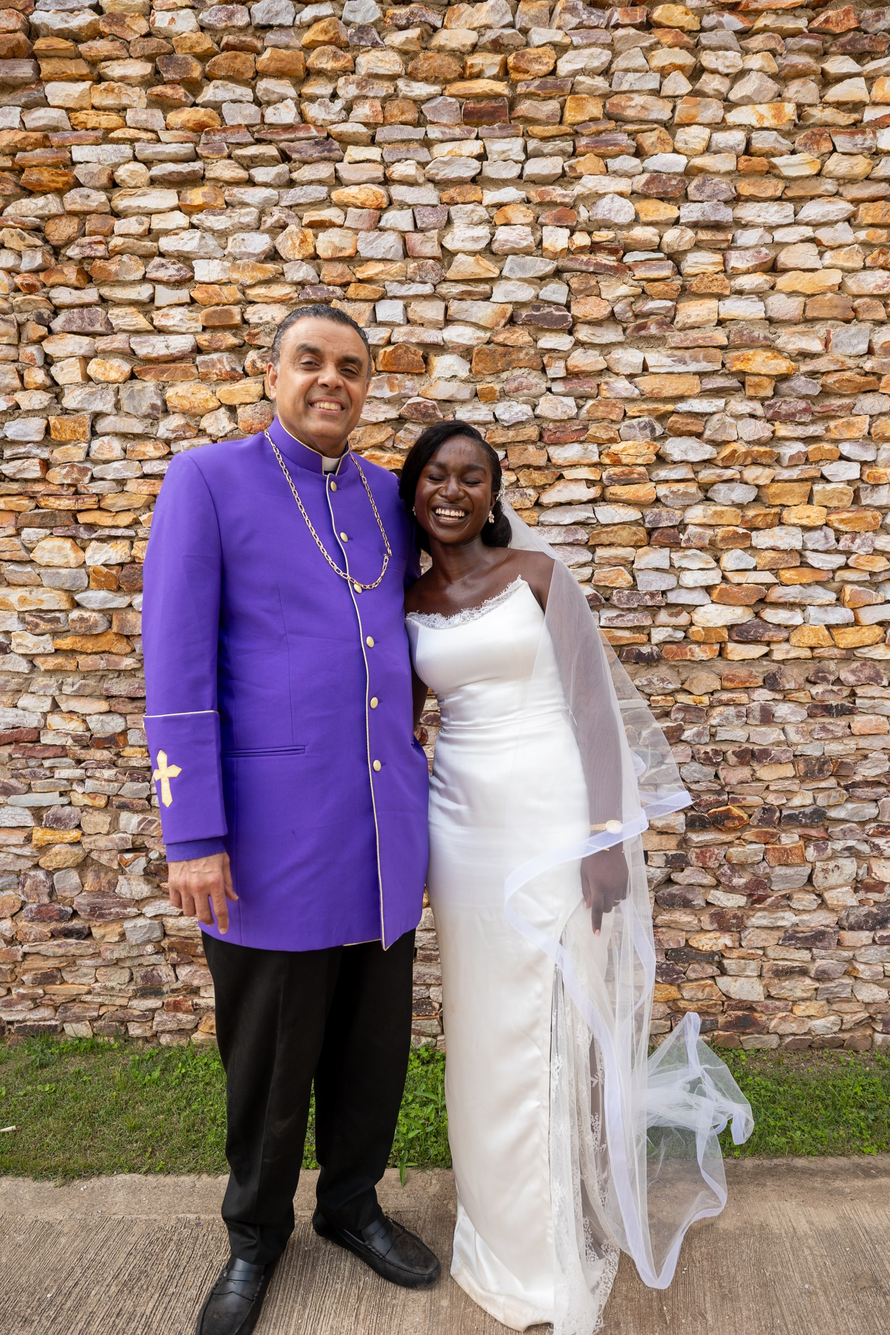
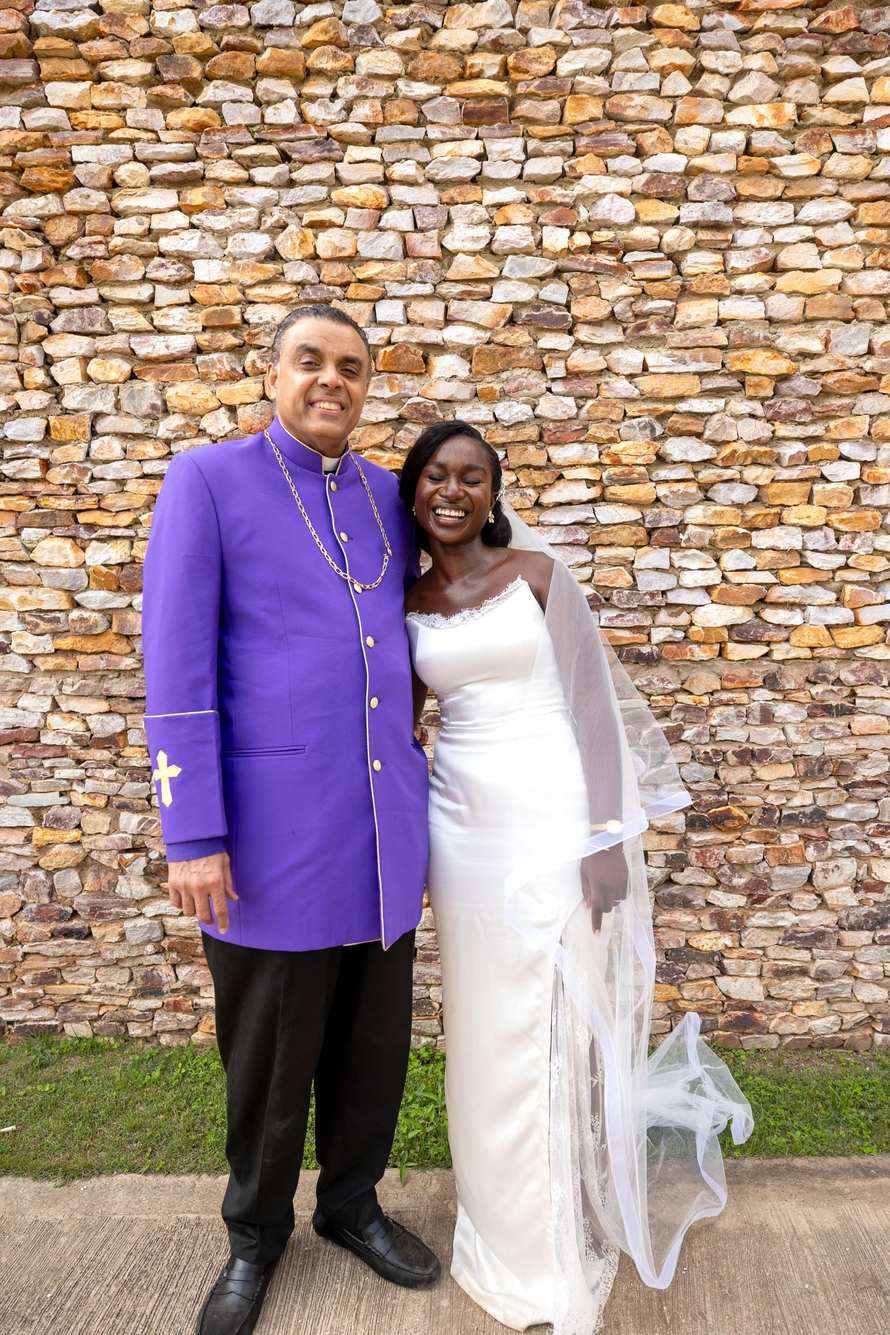
Replace selected photo edits and feature them early in the carousel

diff --git a/photos/gallery/index.html b/photos/gallery/index.html
@@ -1,1 +1,1 @@
-<!doctype html><html lang="en"><head><meta charset="utf-8"><meta name="viewport" content="width=device-width,initial-scale=1"><title>Wedding photos · Joshua & Lucia</title><meta name="robots" content="noindex"><link rel="icon" href="/assets/favicon-sage.png"><link rel="stylesheet" href="/photos/memories.css?v=20261120-compact-gifts"></head><body><nav aria-label="Wedding navigation"><a class="brand" href="/photos/"><img src="/assets/monogram-sage.png" alt="JL">Joshua & Lucia</a><div class="page-tabs"><a href="/photos/" aria-current="page">Photos</a><a href="/programme/Joshua-and-Lucia.pdf" target="_blank" rel="noopener">Wedding programme ↗</a><a href="/gifts/">Gifts and offerings</a></div></nav><main><header class="album-header"><p class="eyebrow">7 November 2026 · Our wedding album</p><h1>Together forever.</h1><div class="album-toolbar"><p id="count" role="status">Loading our wedding photos…</p><a href="/photos/shared/" class="button">Guest photos & videos ↗</a></div></header><div class="album-controls"><div class="tabs" role="group" aria-label="Wedding photo collections"><button data-category="all" aria-pressed="true">All photos</button><button data-category="ceremony" aria-pressed="false">The ceremony</button><button data-category="portraits" aria-pressed="false">Wedding portraits</button><button data-category="reception" aria-pressed="false">The reception</button></div><div class="sizes" role="group" aria-label="Photo grid size"><span>Photo size</span><button data-size="small" aria-pressed="false">Small</button><button data-size="large" aria-pressed="true">Large</button></div></div><div class="gallery-grid" id="grid"></div><p id="status" class="status" role="status"></p><button id="retry" class="button" hidden>Try again</button><button id="more" class="button load-more" hidden>Show more photos</button><div class="gift"><a href="/gifts/">Gifts and offerings ↗</a></div><footer><span>With love, Joshua & Lucia</span><a href="https://youtu.be/m_x5uWa3ee0" target="_blank" rel="noopener">Watch the full wedding ↗</a></footer></main><dialog id="viewer" aria-label="Wedding photo viewer"><div class="viewer-top"><span id="position"></span><button id="close" aria-label="Close photo">Close ×</button></div><div class="viewer-stage" id="viewer-stage"><img id="full" class="viewer-image" alt="" draggable="false"><p class="swipe-hint" id="swipe-hint" hidden><span aria-hidden="true">← &nbsp; →</span> Swipe to see more photos</p></div><div class="viewer-bottom"><button id="prev" aria-label="Previous photo">← Previous</button><a href="/gifts/" class="gallery-gift">Gifts and offerings ↗</a><button id="share">Share ↗</button><a id="download" download>Download JPEG ↓</a><button id="next" aria-label="Next photo">Next →</button></div><p class="share-status" id="share-status" role="status" aria-live="polite"></p></dialog><script src="/photos/gallery/gallery.js?v=20261120-120"></script></body></html>
+<!doctype html><html lang="en"><head><meta charset="utf-8"><meta name="viewport" content="width=device-width,initial-scale=1"><title>Wedding photos · Joshua & Lucia</title><meta name="robots" content="noindex"><link rel="icon" href="/assets/favicon-sage.png"><link rel="stylesheet" href="/photos/memories.css?v=20261120-replacements"></head><body><nav aria-label="Wedding navigation"><a class="brand" href="/photos/"><img src="/assets/monogram-sage.png" alt="JL">Joshua & Lucia</a><div class="page-tabs"><a href="/photos/" aria-current="page">Photos</a><a href="/programme/Joshua-and-Lucia.pdf" target="_blank" rel="noopener">Wedding programme ↗</a><a href="/gifts/">Gifts and offerings</a></div></nav><main><header class="album-header"><p class="eyebrow">7 November 2026 · Our wedding album</p><h1>Together forever.</h1><div class="album-toolbar"><p id="count" role="status">Loading our wedding photos…</p><a href="/photos/shared/" class="button">Guest photos & videos ↗</a></div></header><div class="album-controls"><div class="tabs" role="group" aria-label="Wedding photo collections"><button data-category="all" aria-pressed="true">All photos</button><button data-category="ceremony" aria-pressed="false">The ceremony</button><button data-category="portraits" aria-pressed="false">Wedding portraits</button><button data-category="reception" aria-pressed="false">The reception</button></div><div class="sizes" role="group" aria-label="Photo grid size"><span>Photo size</span><button data-size="small" aria-pressed="false">Small</button><button data-size="large" aria-pressed="true">Large</button></div></div><div class="gallery-grid" id="grid"></div><p id="status" class="status" role="status"></p><button id="retry" class="button" hidden>Try again</button><button id="more" class="button load-more" hidden>Show more photos</button><div class="gift"><a href="/gifts/">Gifts and offerings ↗</a></div><footer><span>With love, Joshua & Lucia</span><a href="https://youtu.be/m_x5uWa3ee0" target="_blank" rel="noopener">Watch the full wedding ↗</a></footer></main><dialog id="viewer" aria-label="Wedding photo viewer"><div class="viewer-top"><span id="position"></span><button id="close" aria-label="Close photo">Close ×</button></div><div class="viewer-stage" id="viewer-stage"><img id="full" class="viewer-image" alt="" draggable="false"><p class="swipe-hint" id="swipe-hint" hidden><span aria-hidden="true">← &nbsp; →</span> Swipe to see more photos</p></div><div class="viewer-bottom"><button id="prev" aria-label="Previous photo">← Previous</button><a href="/gifts/" class="gallery-gift">Gifts and offerings ↗</a><button id="share">Share ↗</button><a id="download" download>Download JPEG ↓</a><button id="next" aria-label="Next photo">Next →</button></div><p class="share-status" id="share-status" role="status" aria-live="polite"></p></dialog><script src="/photos/gallery/gallery.js?v=20261120-replacements"></script></body></html>

diff --git a/photos/index.html b/photos/index.html
@@ -1,9 +1,9 @@
 <!doctype html>
-<html lang="en"><head><meta charset="utf-8"><meta name="viewport" content="width=device-width,initial-scale=1"><title>Wedding memories · Joshua & Lucia</title><meta name="robots" content="noindex"><meta name="description" content="With grateful hearts. Explore Joshua and Lucia’s wedding photos and watch the full celebration."><meta property="og:title" content="With love, Joshua & Lucia"><meta property="og:description" content="Our wedding photos, the full celebration, and a heartfelt thank you."><meta property="og:image" content="https://joshualucia.com/photos/featured.jpg"><link rel="icon" href="/assets/favicon-sage.png"><link rel="stylesheet" href="/photos/memories.css?v=20261120-compact-gifts"><script>if(new URLSearchParams(location.search).has('photo'))location.replace('/photos/shared/'+location.search);</script></head><body>
+<html lang="en"><head><meta charset="utf-8"><meta name="viewport" content="width=device-width,initial-scale=1"><title>Wedding memories · Joshua & Lucia</title><meta name="robots" content="noindex"><meta name="description" content="With grateful hearts. Explore Joshua and Lucia’s wedding photos and watch the full celebration."><meta property="og:title" content="With love, Joshua & Lucia"><meta property="og:description" content="Our wedding photos, the full celebration, and a heartfelt thank you."><meta property="og:image" content="https://joshualucia.com/photos/featured.jpg"><link rel="icon" href="/assets/favicon-sage.png"><link rel="stylesheet" href="/photos/memories.css?v=20261120-replacements"><script>if(new URLSearchParams(location.search).has('photo'))location.replace('/photos/shared/'+location.search);</script></head><body>
 <nav aria-label="Wedding navigation"><a class="brand" href="/photos/"><img src="/assets/monogram-sage.png" alt="JL">Joshua & Lucia</a><div class="page-tabs"><a href="/photos/" aria-current="page">Photos</a><a href="/programme/Joshua-and-Lucia.pdf" target="_blank" rel="noopener">Wedding programme ↗</a><a href="/gifts/">Gifts and offerings</a></div></nav>
 <main><header class="intro"><p class="eyebrow">7 November 2026 · Joshua & Lucia</p><h1>Together <span>forever.</span></h1><p>Thank you for celebrating with us.</p></header>
 <section class="card photo-card" aria-labelledby="photo-title"><div class="card-heading"><div><p class="eyebrow">Love is as strong as death</p><h2 id="photo-title">Wedding photos</h2></div><button id="pause" class="text-button" aria-pressed="false" aria-label="Pause moving photos">Pause photos</button></div><div class="carousel" id="preview" aria-label="Wedding photo highlights" tabindex="0"><div class="carousel-track" id="carousel-track"><div class="carousel-group"><a href="/photos/gallery/"><img alt="Joshua and Lucia on their wedding day" src="/photos/featured.jpg" style="object-position:20% 50%"></a><a href="/photos/gallery/"><img alt="Our wedding celebration" src="/photos/featured-2.jpg" style="object-position:30% 45%"></a><a href="/photos/gallery/"><img alt="Wedding memories with loved ones" src="/photos/featured-3.jpg" style="object-position:50% 10%"></a></div></div></div><div class="card-bottom"><p>The ceremony, the portraits, and the reception.</p><a class="button" href="/photos/gallery/">View all photos <span aria-hidden="true">↗</span></a></div></section>
 <section class="card film-card" aria-labelledby="film-title"><a class="film-image" href="https://youtu.be/m_x5uWa3ee0" target="_blank" rel="noopener" aria-label="Watch the full wedding livestream on YouTube"><img src="https://i.ytimg.com/vi/m_x5uWa3ee0/hqdefault.jpg" alt="Joshua and Lucia’s wedding livestream"><span class="play" aria-hidden="true">▶</span></a><div class="film-copy"><p class="eyebrow">Missed the livestream?</p><h2 id="film-title">Watch the full wedding</h2><p>Join us for the service, the vows, and the worship.</p><a class="button" href="https://youtu.be/m_x5uWa3ee0" target="_blank" rel="noopener">Watch on YouTube <span aria-hidden="true">↗</span></a></div></section>
 <div class="gift"><a href="/gifts/">Gifts and offerings <span aria-hidden="true">↗</span></a></div>
 <p class="closing-line">It’s gonna be a good life as we serve the Lord together.</p>
-<footer><span>With love, Joshua & Lucia</span><a href="/photos/shared/">Add your photos & videos</a></footer></main><script src="/photos/memories.js?v=20261120-shuffle"></script></body></html>
+<footer><span>With love, Joshua & Lucia</span><a href="/photos/shared/">Add your photos & videos</a></footer></main><script src="/photos/memories.js?v=20261120-replacements"></script></body></html>

diff --git a/photos/memories.js b/photos/memories.js
@@ -5,7 +5,22 @@
  const button=()=>{pause.textContent=paused?'Play photos':'Pause photos';pause.setAttribute('aria-pressed',String(paused));pause.setAttribute('aria-label',paused?'Play moving photos':'Pause moving photos');};button();
  pause.onclick=()=>{paused=!paused;button();};motion.addEventListener('change',()=>{paused=motion.matches;button();});
  let group=track.firstElementChild;
- try{const r=await fetch('/photos/wedding/manifest.json',{cache:'no-cache'});if(!r.ok)throw Error('Album unavailable');const data=await r.json(),byID=new Map(data.photos.filter(p=>p.ok&&!p.hidden).map(p=>[p.id,p]));const featured=(data.featured||[]).map(id=>byID.get(id)).filter(Boolean);if(featured.length){for(let i=featured.length-1;i>0;i--){const j=Math.floor(Math.random()*(i+1));[featured[i],featured[j]]=[featured[j],featured[i]];}group.replaceChildren(...featured.map((p,i)=>{const link=document.createElement('a'),img=document.createElement('img');link.href='/photos/gallery/?photo='+encodeURIComponent(p.id);img.src='/photos/wedding/'+p.thumbnail+(p.lightroomExportSHA256?'?edit='+p.lightroomExportSHA256.slice(0,12):'');img.alt='Joshua and Lucia’s wedding · highlight '+(i+1);img.style.objectPosition=p.focus||'50% 20%';img.loading=i<4?'eager':'lazy';link.append(img);return link;}));}}
+ try{
+  const r=await fetch('/photos/wedding/manifest.json',{cache:'no-cache'});if(!r.ok)throw Error('Album unavailable');
+  const data=await r.json(),byID=new Map(data.photos.filter(p=>p.ok&&!p.hidden).map(p=>[p.id,p]));
+  const selected=(data.featured||[]).map(id=>byID.get(id)).filter(Boolean);
+  const shuffle=items=>{for(let i=items.length-1;i>0;i--){const j=Math.floor(Math.random()*(i+1));[items[i],items[j]]=[items[j],items[i]];}return items;};
+  const earlyIDs=new Set(data.earlyFeatured||[]),early=shuffle(selected.filter(p=>earlyIDs.has(p.id))),remaining=shuffle(selected.filter(p=>!earlyIDs.has(p.id))),featured=[];
+  // Spread the preferred edits through the opening, with other highlights between.
+  for(const photo of early){if(remaining.length)featured.push(remaining.shift());featured.push(photo);if(remaining.length)featured.push(remaining.shift());}
+  featured.push(...remaining);
+  if(featured.length)group.replaceChildren(...featured.map((p,i)=>{
+   const link=document.createElement('a'),img=document.createElement('img'),revision=p.sourceEditSHA256||p.lightroomExportSHA256;
+   link.href='/photos/gallery/?photo='+encodeURIComponent(p.id);img.src='/photos/wedding/'+p.thumbnail+(revision?'?edit='+revision.slice(0,12):'');
+   if(p.sourceEditSHA256&&p.width>p.height){link.className='supplied-landscape';link.style.aspectRatio=p.width+' / '+p.height;}
+   img.alt='Joshua and Lucia’s wedding · highlight '+(i+1);img.style.objectPosition=p.focus||'50% 20%';img.loading=i<4?'eager':'lazy';link.append(img);return link;
+  }));
+ }
  catch(e){/* Keep the initial highlights if the album cannot be reached. */}
  const clone=group.cloneNode(true);clone.setAttribute('aria-hidden','true');clone.querySelectorAll('a').forEach(a=>a.tabIndex=-1);track.append(clone);
  const measure=()=>{width=group.getBoundingClientRect().width;};new ResizeObserver(measure).observe(group);measure();

diff --git a/photos/gallery/gallery.js b/photos/gallery/gallery.js
@@ -1,6 +1,6 @@
 'use strict';
 const $=id=>document.getElementById(id);let photos=[],visible=[],shown=0,current=0,category='all',trigger=null;
-const imageURL=(p,file)=>'/photos/wedding/'+file+(p.lightroomExportSHA256?'?edit='+p.lightroomExportSHA256.slice(0,12):'');
+const imageURL=(p,file)=>{const revision=p.sourceEditSHA256||p.lightroomExportSHA256;return '/photos/wedding/'+file+(revision?'?edit='+revision.slice(0,12):'');};
 const photoURL=p=>imageURL(p,p.file);
 function message(text){$('share-status').textContent=text;setTimeout(()=>$('share-status').textContent='',4000);}
 function showMore(){const end=Math.min(shown+120,visible.length);for(let i=shown;i<end;i++){const p=visible[i],b=document.createElement('button'),img=document.createElement('img');b.className='tile';b.setAttribute('aria-label','View wedding photo '+(i+1));img.loading='lazy';img.src=imageURL(p,p.thumbnail);img.alt='Joshua and Lucia’s wedding · photo '+(i+1);img.width=p.width||600;img.height=p.height||400;b.append(img);b.onclick=()=>{trigger=b;openPhoto(i);};$('grid').append(b);}shown=end;$('more').hidden=shown>=visible.length;}

diff --git a/photos/memories.css b/photos/memories.css
@@ -9,3 +9,6 @@
 @media(max-width:850px){.giving-grid{grid-template-columns:1fr}.giving-card{padding:25px}.giving-card h2{margin-bottom:20px}.giving-header{padding:25px 0 20px}}
 @media(max-width:650px){nav:has(.page-tabs){flex-wrap:wrap;gap:11px;padding:12px 16px 10px}.page-tabs{width:100%;justify-content:space-between;gap:0;font-size:11px}.page-tabs a{padding:9px 10px}.intro{margin:20px auto 23px}.intro h1{font-size:clamp(30px,8vw,46px);margin:9px 0 10px}.intro .eyebrow{font-size:8px;letter-spacing:.15em}.intro>p:not(.eyebrow){font-size:13px}.closing-line{font-size:12px;max-width:300px;margin:0 auto 24px}.giving-header h1{font-size:34px}}
 .intro h1 span{display:inline-block;margin-left:.08em}@media(max-width:360px){.page-tabs a{padding-inline:5px}}
+
+/* Show the full group in the supplied landscape replacements. */
+.carousel-group a.supplied-landscape{width:min(460px,calc(100vw - 64px));height:auto}

diff --git a/gifts/index.html b/gifts/index.html
@@ -7,7 +7,7 @@
   <meta name="robots" content="noindex">
   <meta name="description" content="Gifts and offerings for Joshua and Lucia. Mobile Money, Zelle and Stanbic Bank details from our wedding programme.">
   <link rel="icon" href="/assets/favicon-sage.png">
-  <link rel="stylesheet" href="/photos/memories.css?v=20261120-compact-gifts">
+  <link rel="stylesheet" href="/photos/memories.css?v=20261120-replacements">
 </head>
 <body>
   <nav aria-label="Wedding navigation">

diff --git a/scripts/import-lightroom-exports.py b/scripts/import-lightroom-exports.py
@@ -21,6 +21,7 @@ for photo in data['photos']:
  if not a.orientation_in_lightroom:im=im.rotate(photo.get('rotation',0)+photo.get('manualRotation',0),expand=True)
  im.thumbnail((2400,2400));im.save(base/photo['file'],'JPEG',quality=90,optimize=True,icc_profile=profile)
  photo['width'],photo['height']=im.size
+ photo.pop('sourceEditSHA256',None);photo.pop('sourceEditFile',None)
  im.thumbnail((600,600));im.save(base/photo['thumbnail'],'JPEG',quality=80,optimize=True,icc_profile=profile)
  photo['editor']='Adobe Lightroom Classic';photo['lightroomExportSHA256']=hashlib.sha256(source.read_bytes()).hexdigest();count+=1
 path.write_text(json.dumps(data,indent=2)+'\n');subprocess.run([sys.executable,str(root/'scripts/curate-wedding-photos.py')],check=True);print(f'Published {count} Lightroom Classic edits.')

diff --git a/scripts/curate-wedding-photos.py b/scripts/curate-wedding-photos.py
@@ -31,6 +31,7 @@ if len(featured)<3 and selection is None:
  featured.extend(p for p in byname.values() if p not in featured and not p['hidden'])
  featured=featured[:max(3,len(featured_names))]
 data['featured']=[p['id'] for p in featured];data['photos'].sort(key=lambda p:(p.get('capture',''),p['original']))
+early=set(settings.get('earlyFeatured',[]));data['earlyFeatured']=[p['id'] for p in featured if p['original'] in early]
 # The timestamp reflects new photos, rather than changing on every scheduled run.
 data.pop('updated',None)
 for i,p in enumerate(featured[:3]):

diff --git a/scripts/PHOTO-WORKFLOW.md b/scripts/PHOTO-WORKFLOW.md
@@ -6,6 +6,8 @@ Existing /photos/?photo= guest-photo links redirect to the shared album.
 The compact photo landing page puts the carousel first and the livestream below.
 Carousel selections are shuffled on each visit; the duplicate strip keeps the loop
 continuous. The full gallery initially shows 120 photos and adds 120 per click.
+`curation.json`'s `earlyFeatured` filenames are shuffled among other highlights near
+the beginning of the carousel. Only photos still selected for the carousel qualify.
 Top navigation links the original programme PDF and `/gifts/`. The gifts page
 transcribes the programme's page 10, including Zelle's phone number and Stanbic Bank
 account; each number has a clipboard copy button.
@@ -27,6 +29,19 @@ Auto White Balance corrections after review. The site uses 2400 px copies and 60
 Each manifest entry records its editor and export checksum; image URLs include that
 checksum so visitors receive the updated edit. RAW files stay unchanged. Existing
 reviewed orientation corrections were carried into Lightroom using XMP sidecars.
+
+Seven user-supplied PNG replacements were matched to EA2A0138, EA2A0134, EA2A0141,
+EA2A0150, EA2A0158, EA2A0164 and EA2A0169. Their web JPEGs and thumbnails retain the
+existing photo IDs and links. `sourceEditSHA256` and `sourceEditFile` record the
+provided version and take precedence in image cache keys. The editor is recorded
+as `User-supplied edit`. Existing version-2 files are preserved by Drive sync.
+A later explicit Lightroom reimport clears these replacement fields.
+Full-resolution replacement JPEGs are in the local `Replacement JPEGs` folder;
+the corresponding seven files in both Downloads selections were refreshed.
+`~/Downloads/Joshua & Lucia - Edited Green Photos` contains all 536 green selections,
+with replacements taking precedence over the original Lightroom exports.
+EA2A0045's existing Lightroom edit replaces EA2A0044 in the green selection and
+Downloads folder. Finder tags were updated accordingly; the green count stays 536.
 
 New Drive arrivals use LibRaw camera white balance and automatic exposure until
 they are imported, reviewed and exported through Lightroom locally. The hourly
